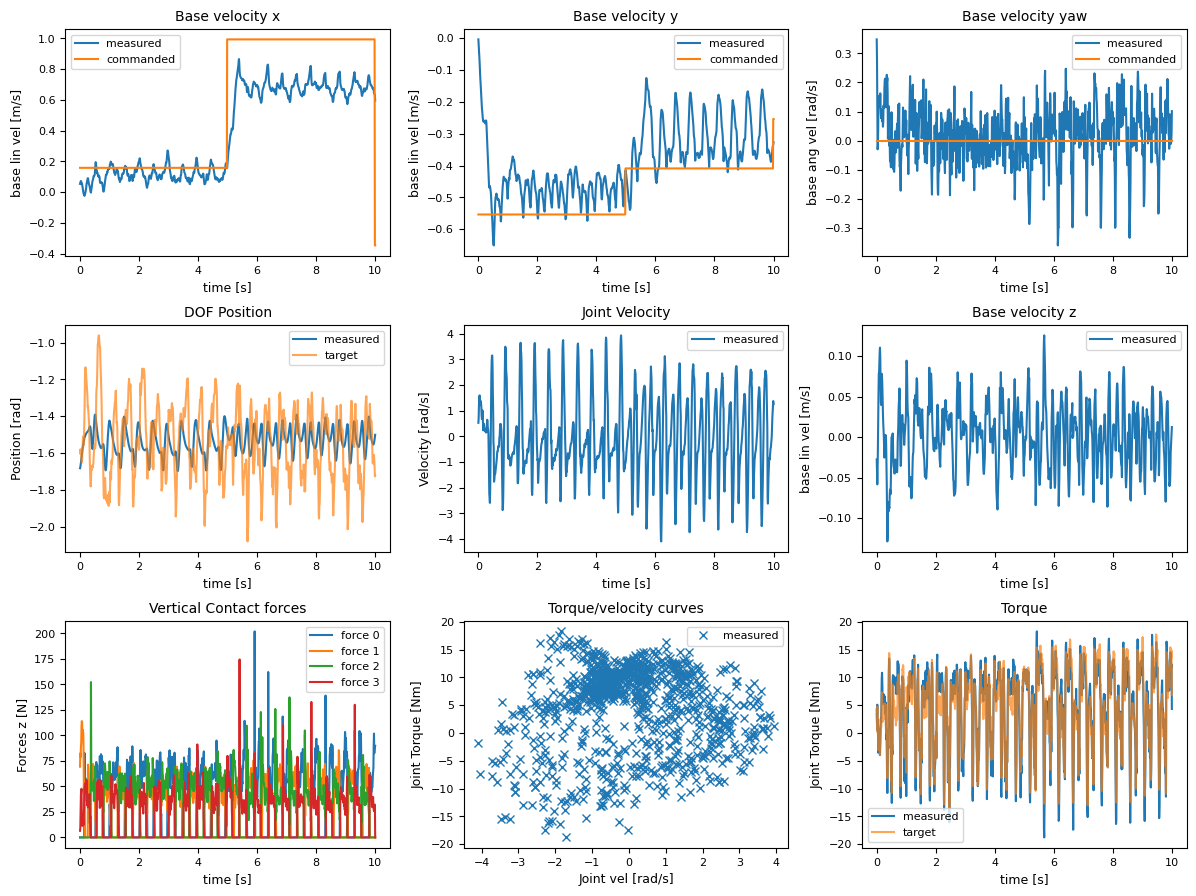
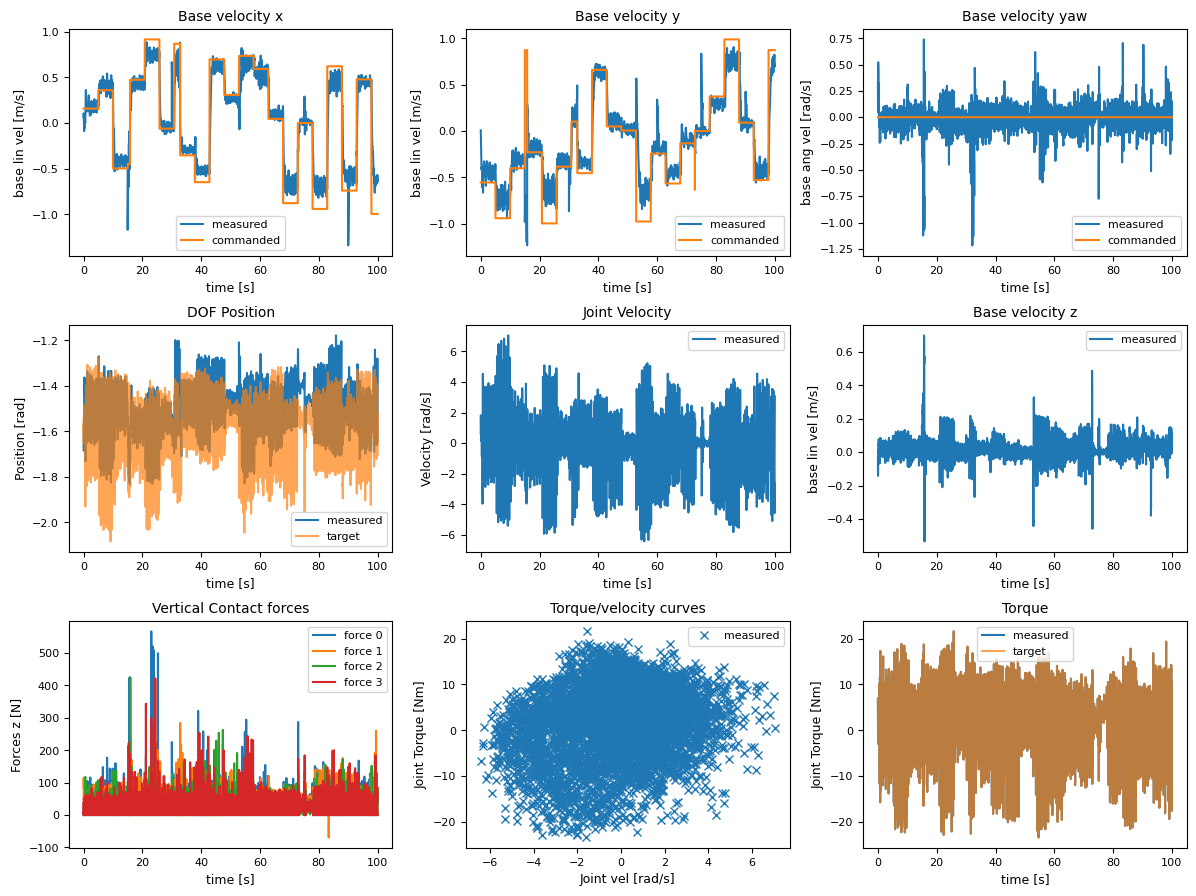
full GRF unimodel ablation

diff --git a/legged_gym/envs/go1/dynamics_learning/parallel_pino_workers.py b/legged_gym/envs/go1/dynamics_learning/parallel_pino_workers.py
@@ -22,18 +22,18 @@ class SharedTensors:
 
         # Inputs
         #      the plus (1) accounts for the quat. representation of orientation used by pinocchio
-        self.q       = self.make("uni_2_q",       (num_envs, self.DOF+1))
-        self.qd      = self.make("uni_2_qd",      (num_envs, self.DOF))
-        self.qd_prev = self.make("uni_2_qd_prev", (num_envs, self.DOF))
-        self.grf     = self.make("uni_2_grf",     (num_envs, *self.FOOT_DIM))
-        self.dt      = self.make("uni_2_dt",      (1,))
+        self.q       = self.make("uni_q",       (num_envs, self.DOF+1))
+        self.qd      = self.make("uni_qd",      (num_envs, self.DOF))
+        self.qd_prev = self.make("uni_qd_prev", (num_envs, self.DOF))
+        self.grf     = self.make("uni_grf",     (num_envs, *self.FOOT_DIM))
+        self.dt      = self.make("uni_dt",      (1,))
 
         # Outputs
-        self.wb_dynamics = self.make("uni_2_wb_dynamics", (num_envs, self.DOF))
-        self.wb_contacts = self.make("uni_2_wb_contacts", (num_envs, self.DOF))
-        self.mass_mat    = self.make("uni_2_mass_mat",    (num_envs, self.DOF, self.DOF))
-        self.bias        = self.make("uni_2_bias",        (num_envs, self.DOF))
-        self.acc6d       = self.make("uni_2_acc6d",       (num_envs, 6))
+        self.wb_dynamics = self.make("uni_wb_dynamics", (num_envs, self.DOF))
+        self.wb_contacts = self.make("uni_wb_contacts", (num_envs, self.DOF))
+        self.mass_mat    = self.make("uni_mass_mat",    (num_envs, self.DOF, self.DOF))
+        self.bias        = self.make("uni_bias",        (num_envs, self.DOF))
+        self.acc6d       = self.make("uni_acc6d",       (num_envs, 6))
 
     def make(self, name, shape, dtype=np.float32):
         nbytes = np.prod(shape) * np.dtype(dtype).itemsize
@@ -56,17 +56,17 @@ def compute_single_env(i, shared, pino_model, pino_data,
     for a single environment index i.
     """
 
-    q       = shared.uni_2_q[i]
-    qd      = shared.uni_2_qd[i]
-    qdprev  = shared.uni_2_qd_prev[i]
-    grf     = shared.uni_2_grf[i]      # shaped as (12)
-    dt      = shared.uni_2_dt[0]
+    q       = shared.uni_q[i]
+    qd      = shared.uni_qd[i]
+    qdprev  = shared.uni_qd_prev[i]
+    grf     = shared.uni_grf[i]      # shaped as (12)
+    dt      = shared.uni_dt[0]
 
     # Acceleration (backward finite difference)
     acc = (qd - qdprev) / dt
 
     # 6-DoF torso accel
-    shared.uni_2_acc6d[i] = acc[:6]
+    shared.uni_acc6d[i] = acc[:6]
 
     # Pinocchio general coords
     aq0 = np.zeros_like(qd)
@@ -75,12 +75,12 @@ def compute_single_env(i, shared, pino_model, pino_data,
     M = pn.crba(pino_model, pino_data, q)
 
     wb_dyn = M @ acc + b
-    shared.uni_2_wb_dynamics[i] = wb_dyn[correct_idxs]
+    shared.uni_wb_dynamics[i] = wb_dyn[correct_idxs]
 
     # Also save reduced mass matrix + bias
     M_ = M[np.ix_(correct_idxs, correct_idxs)]
-    shared.uni_2_mass_mat[i] = M_
-    shared.uni_2_bias[i] = b[correct_idxs]
+    shared.uni_mass_mat[i] = M_
+    shared.uni_bias[i] = b[correct_idxs]
 
     # Contact forces
     J_list = []
@@ -92,7 +92,7 @@ def compute_single_env(i, shared, pino_model, pino_data,
     J_total = np.concatenate(J_list, axis=0)
     tau = (J_total.transpose() @ grf).squeeze()
 
-    shared.uni_2_wb_contacts[i] = tau[correct_idxs]
+    shared.uni_wb_contacts[i] = tau[correct_idxs]
 
 def worker_loop(worker_id, shared_names, shapes, dtypes,
                 pino_model, pino_foot_names, correct_idxs,

diff --git a/legged_gym/envs/go1/dynamics_learning/go1_dl_config.py b/legged_gym/envs/go1/dynamics_learning/go1_dl_config.py
@@ -244,7 +244,7 @@ class GO1DynamicCfg( LeggedRobotCfg ):
         foot_clearance_tracking_sigma = 0.01
         only_positive_rewards = False
 
-        use_reward_curriculum = True
+        use_reward_curriculum = False
 
         max_contact_force = 200.0
         class scales( LeggedRobotCfg.rewards.scales ):
@@ -369,7 +369,7 @@ class GO1DynmaicCfgPPO( LeggedRobotCfgPPO ):
         # Context Decoder
         cenet_dec_input_dim = 19
         cenet_dec_layers = [64,128]
-        cenet_dec_out_dim = 57   # next obs (57) + grf_dim (12)
+        cenet_dec_out_dim = 57 + 12  # next obs (57) + grf_dim (12)
 
         # Actor/critic
         actor_shared_dim = 512
@@ -415,8 +415,8 @@ class GO1DynmaicCfgPPO( LeggedRobotCfgPPO ):
         save_interval = 100
         
         
-        load_run = "Jan17_00-40-04_unimodel_100hz_baseline"
-        checkpoint = 2000
+        load_run = "Jan17_23-04-11_ablation_unimodel_np_grfdec_grfcrit_100hz_posboot_01"
+        checkpoint = 5000
 
         # Load parameters for first function policy
         # run_name = 'test_01'

diff --git a/rsl_rl/runners/on_policy_runner_dynamic.py b/rsl_rl/runners/on_policy_runner_dynamic.py
@@ -127,7 +127,7 @@ class OnPolicyRunnerDynamic:
         # re-initalize the critic network weights which where not pretrained (to be safe)
         self.alg.actor_critic._init_critic_weights()
         # Load the pretrained decoder network
-        self.alg.decoder.load_state_dict(loaded_dict['decoder'])
+        # self.alg.decoder.load_state_dict(loaded_dict['decoder'])
         # self.alg.act_optimizer.optimizer.load_state_dict(loaded_dict['act_optimizer_state_dict'])
         # self.alg.enc_optimizer.load_state_dict(loaded_dict['enc_optimizer_state_dict'])
         # self.alg.decoder_optimizer.load_state_dict(loaded_dict['decoder_opt_state_dict'])

diff --git a/legged_gym/envs/go1/dynamics_learning/go1_dynmaics_learning.py b/legged_gym/envs/go1/dynamics_learning/go1_dynmaics_learning.py
@@ -1610,7 +1610,7 @@ class LeggedRobotGo1Dynamic(BaseTask):
         # self.feedback_tau_weight = 1.0
 
         self.feedforward_tau_weight = torch.ones((self.cfg.env.num_envs, 1), device=sim_device, dtype=gs.tc_float)
-        self.feedback_tau_weight = torch.ones((self.cfg.env.num_envs, 1), device=sim_device, dtype=gs.tc_float)
+        self.feedback_tau_weight = torch.zeros((self.cfg.env.num_envs, 1), device=sim_device, dtype=gs.tc_float)
         self.tradeoff_step_ctr = torch.zeros((self.cfg.env.num_envs, 1), device=sim_device, dtype=gs.tc_float)
 
         self.num_iters = 0

diff --git a/legged_gym/scripts/play_dynamic.py b/legged_gym/scripts/play_dynamic.py
@@ -99,8 +99,8 @@ def play(args):
     if RECORD_FRAMES:
         env.floating_camera.start_recording()
 
-    # for i in range(2*int(env.max_episode_length)):
-    for i in range(1000):
+    for i in range(5*int(env.max_episode_length)):
+    # for i in range(1000):
         actions = policy(obs.detach(), obs_hist.detach())
         obs, _, obs_hist, rews, dones, infos, grfs = env.step(actions.detach())
 
